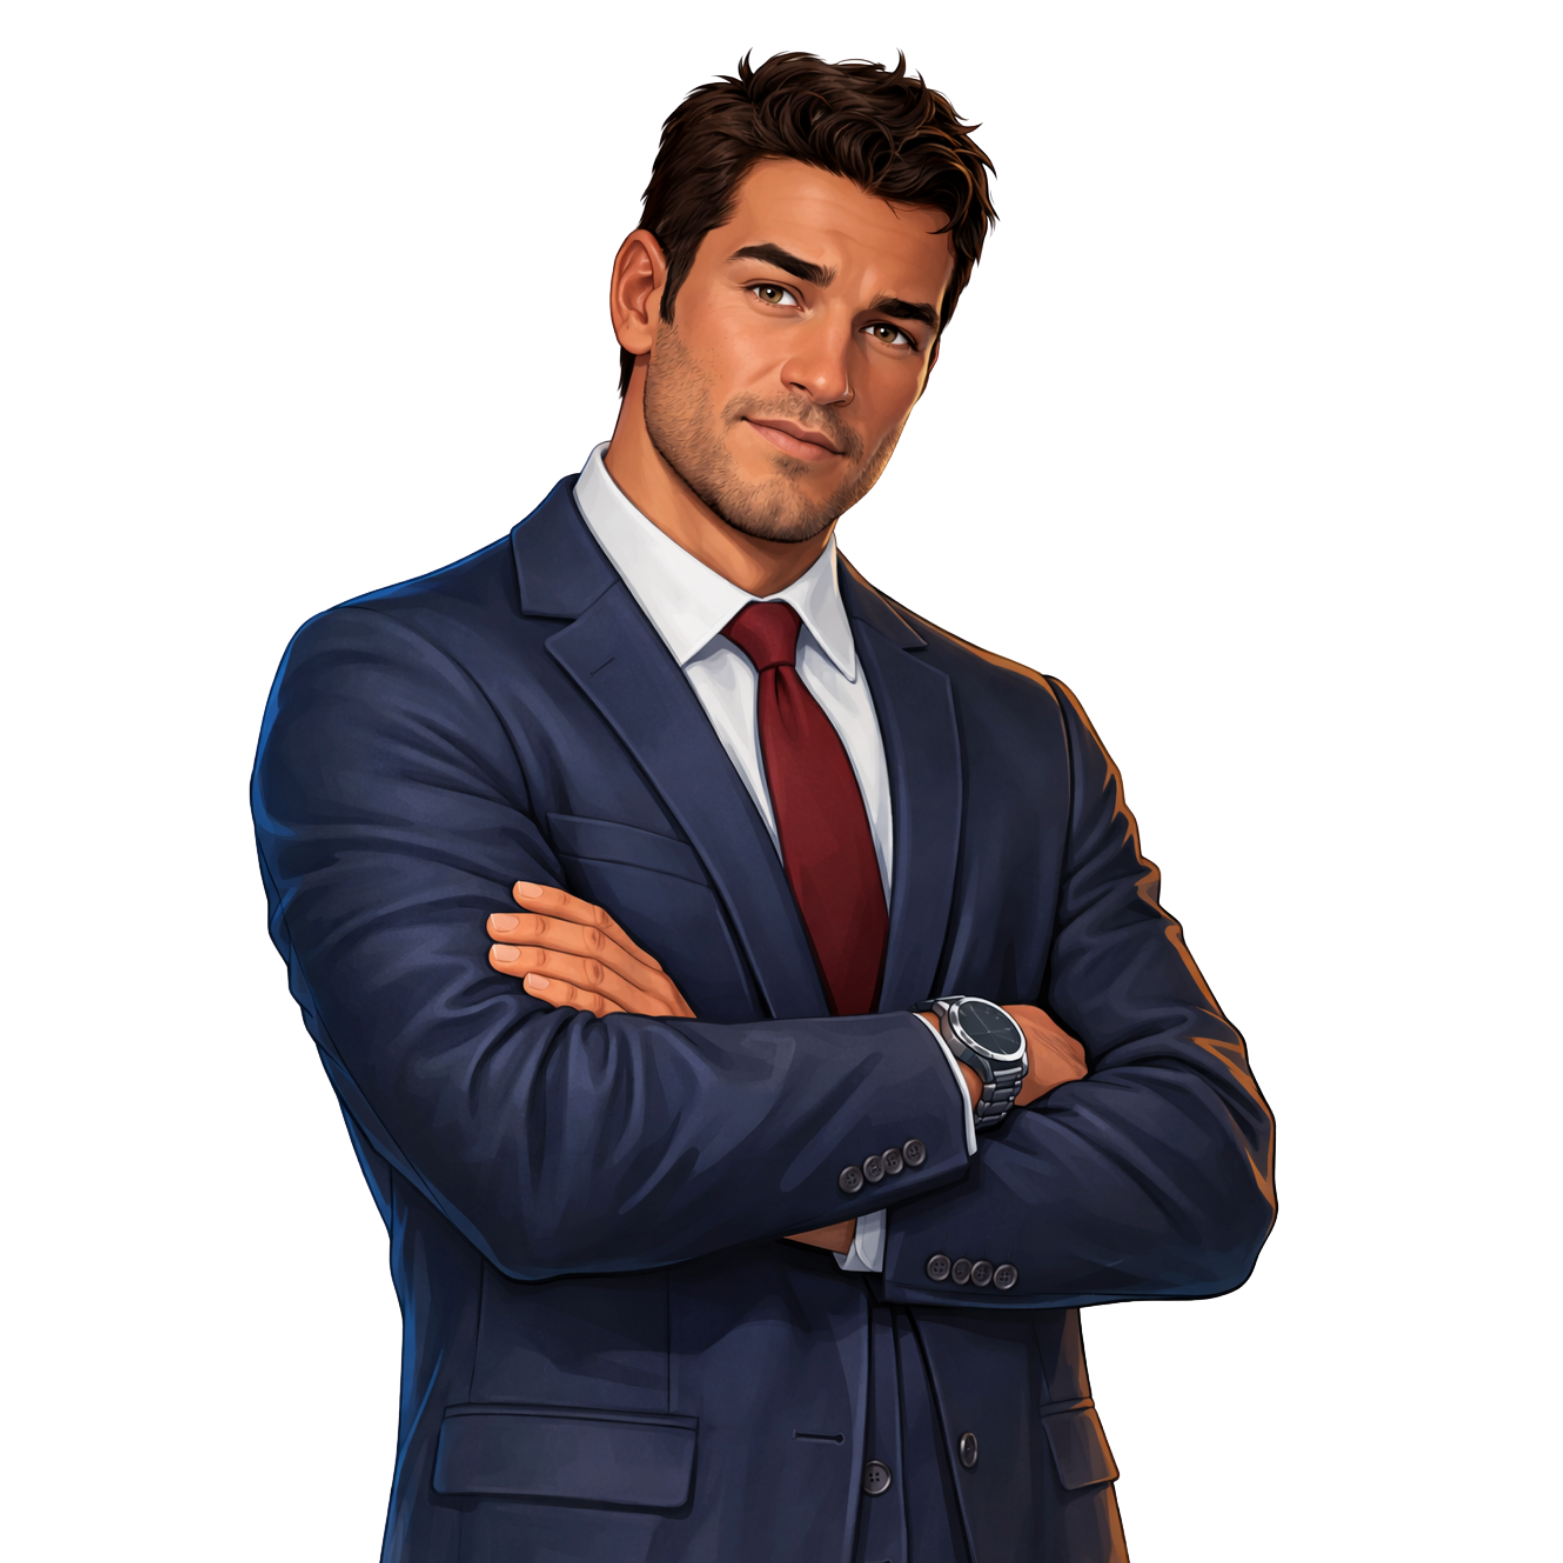
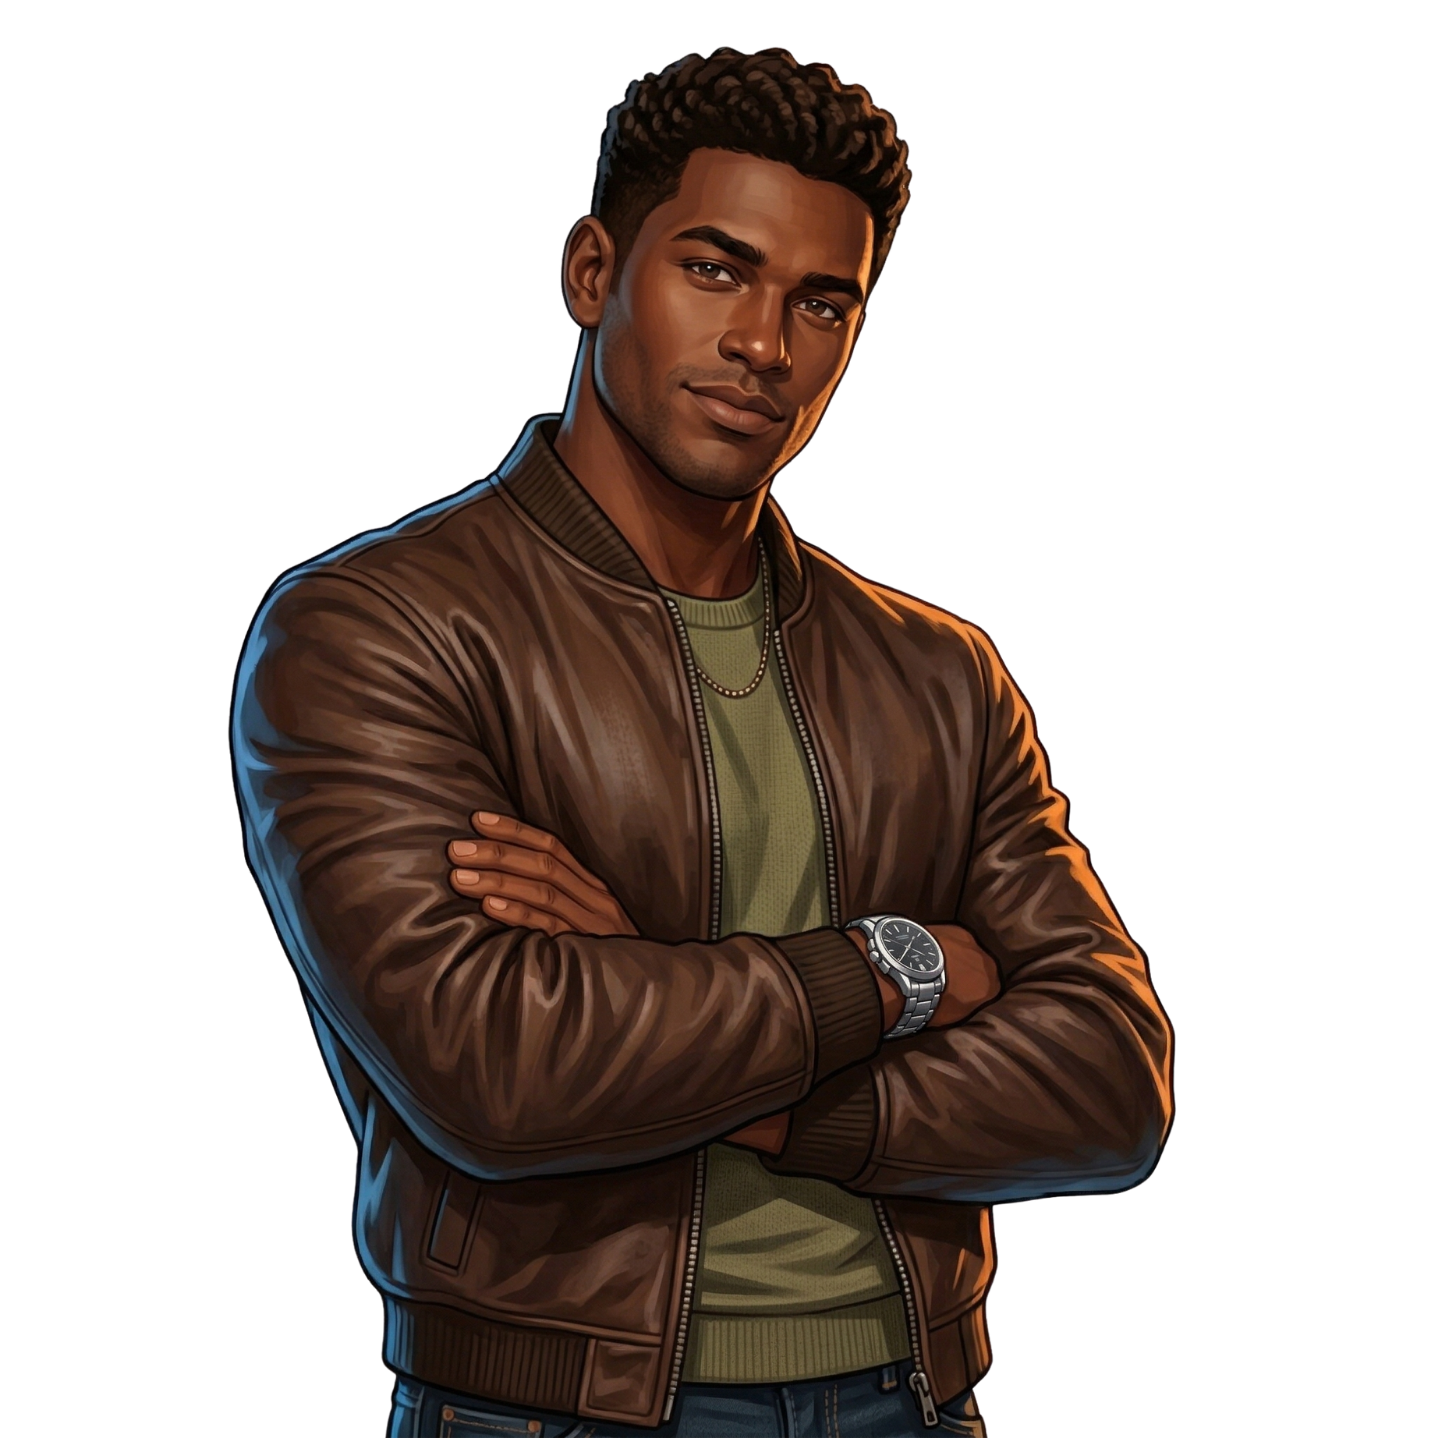
leo-joe

diff --git a/index.html b/index.html
@@ -30,7 +30,7 @@
             <p class="subtitle" data-delay="5500">Uma oficina interativa</p>
             <div class="credits" data-delay="6500">
                 <p>Sistemas de Informação — Elaboração e Gestão de Projetos</p>
-                <p class="credit-names">Hemilly Christine · Iad Moraes · Kauê Glória · Luiz Cláudio</p>
+                <p class="credit-names">Hemilly Christine · Iad Moraes · Kauê Glória · Leonardo · Luiz Cláudio</p>
             </div>
             <button class="btn-neon" data-delay="7500" onclick="nextSlide()">
                 <span class="btn-icon">🔍</span> Iniciar Investigação
@@ -290,6 +290,9 @@ WHERE idade > 14;</code></pre>
                     <h3 class="character-name">Joe Germuska</h3>
                     <div class="character-details">
                         <span class="detail-tag">👤 Homem</span>
+                        <span class="detail-tag">🎂 28 anos</span>
+                        <span class="detail-tag">💇 Cabelo preto</span>
+                        <span class="detail-tag">👁 Olhos castanhos</span>
                     </div>
 
                 </div>
@@ -310,42 +313,6 @@ WHERE idade > 14;</code></pre>
             </div>
             <button class="btn-neon fade-item" onclick="nextSlide()">
                 <span class="btn-icon">🔍</span> Continuar Investigação
-            </button>
-            <button class="btn-back" onclick="if(currentSlide > 0) goToSlide(currentSlide - 1)" title="Voltar">
-                <span>◀</span>
-            </button>
-        </div>
-    </section>
-
-    <!-- ================================================ -->
-    <!-- TELA 8.5 — DESAFIO: ENCONTRAR O ASSASSINO        -->
-    <!-- ================================================ -->
-    <section class="slide" id="slide-challenge-assassin">
-        <div class="slide-bg" style="background-image: url('public/cidadesql.png');"></div>
-        <div class="overlay overlay-red"></div>
-        <div class="slide-content reveal-layout">
-            <div class="challenge-container">
-                <div class="challenge-icon fade-item">🔎</div>
-                <h2 class="section-title fade-item" style="justify-content: center;"><span class="icon-label">🚨</span> Hora de Investigar!</h2>
-                <div class="narrative-box fade-item" style="text-align: center;">
-                    <p class="narrative large-text" style="text-align: center;">Temos dois suspeitos, mas apenas <strong>um deles</strong> é o assassino.</p>
-                    <p class="narrative large-text" style="text-align: center; margin-top: 0.5rem;">Usem os comandos SQL para cruzar as pistas e <strong class="clue">descobrir quem cometeu o crime</strong>.</p>
-                </div>
-                <div class="challenge-box fade-item">
-                    <h3 class="challenge-title">🎯 Missão</h3>
-                    <p class="challenge-text">Vocês têm um tempo para analisar as evidências no banco de dados e descobrir <strong>quem é o assassino</strong>.</p>
-                </div>
-                <div class="challenge-prize fade-item">
-                    <div class="prize-icon">💻</div>
-                    <p class="prize-text">Usem os comandos <strong>SELECT</strong>, <strong>FROM</strong> e <strong>WHERE</strong> para encontrar a resposta!</p>
-                </div>
-                <div class="narrative-box fade-item" style="text-align: center; border-color: rgba(255, 215, 0, 0.25);">
-                    <p class="narrative" style="text-align: center;">Se tiverem alguma dúvida com os comandos, podem chamar a gente. 😄</p>
-                    <p class="narrative" style="text-align: center; margin-top: 0.5rem;">Mãos à obra, investigadores!</p>
-                </div>
-            </div>
-            <button class="btn-neon btn-danger fade-item" onclick="nextSlide()">
-                <span class="btn-icon">👁</span> Revelar Assassino
             </button>
             <button class="btn-back" onclick="if(currentSlide > 0) goToSlide(currentSlide - 1)" title="Voltar">
                 <span>◀</span>
@@ -482,7 +449,7 @@ WHERE idade > 14;</code></pre>
             <div class="final-credits fade-item">
                 <p>Oficina de SQL — Sistemas de Informação</p>
                 <p>Elaboração e Gestão de Projetos</p>
-                <p class="credit-names">Hemilly Christine · Iad Moraes · Kauê Glória · Luiz Cláudio</p>
+                <p class="credit-names">Hemilly Christine · Iad Moraes · Kauê Glória · Leonardo · Luiz Cláudio</p>
             </div>
             <button class="btn-neon fade-item" onclick="goToSlide(0)">
                 <span class="btn-icon">🔄</span> Reiniciar Investigação
